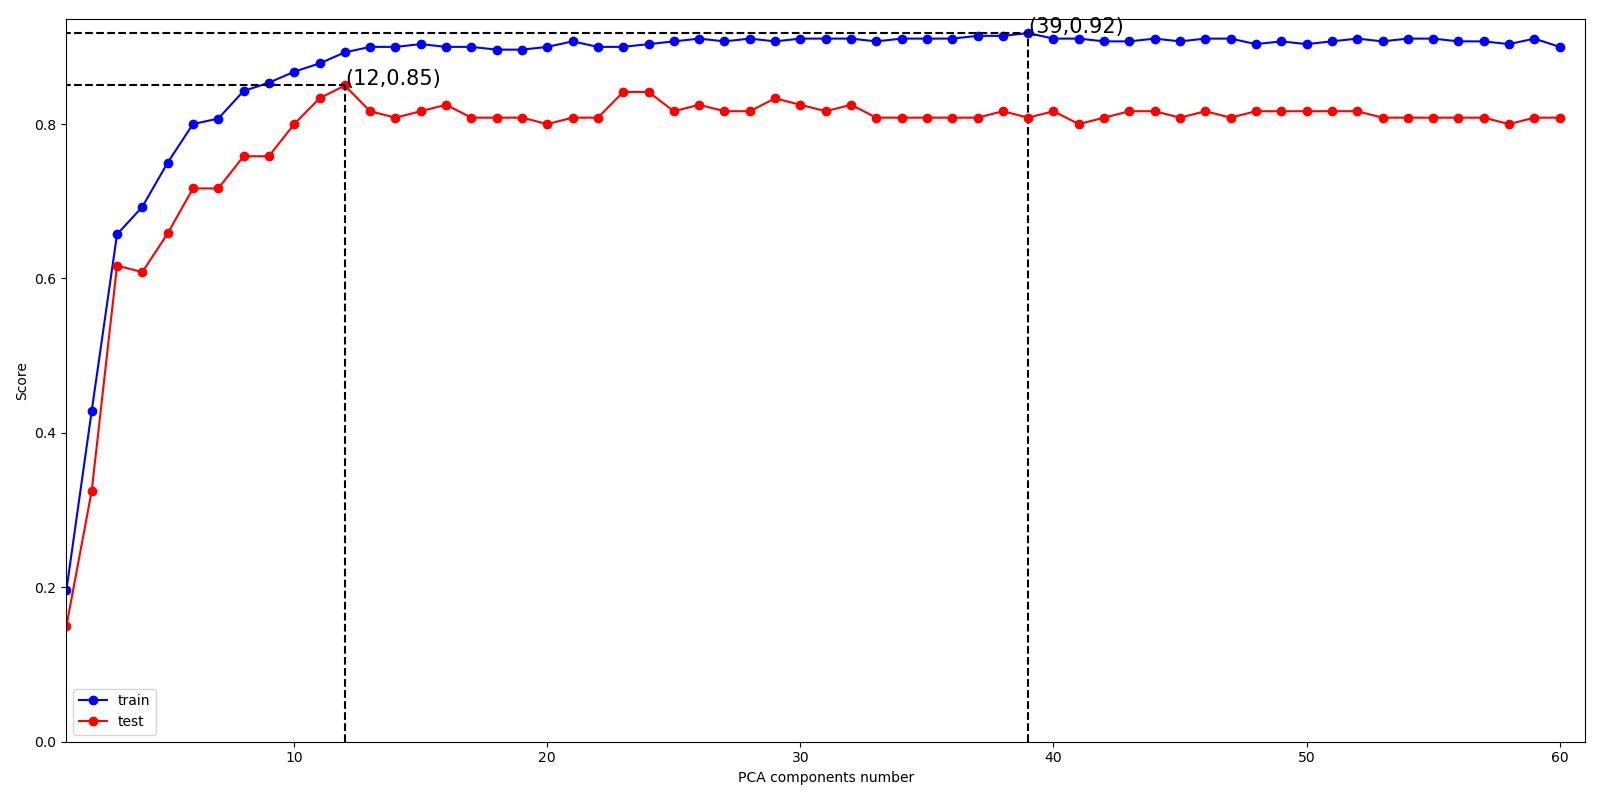
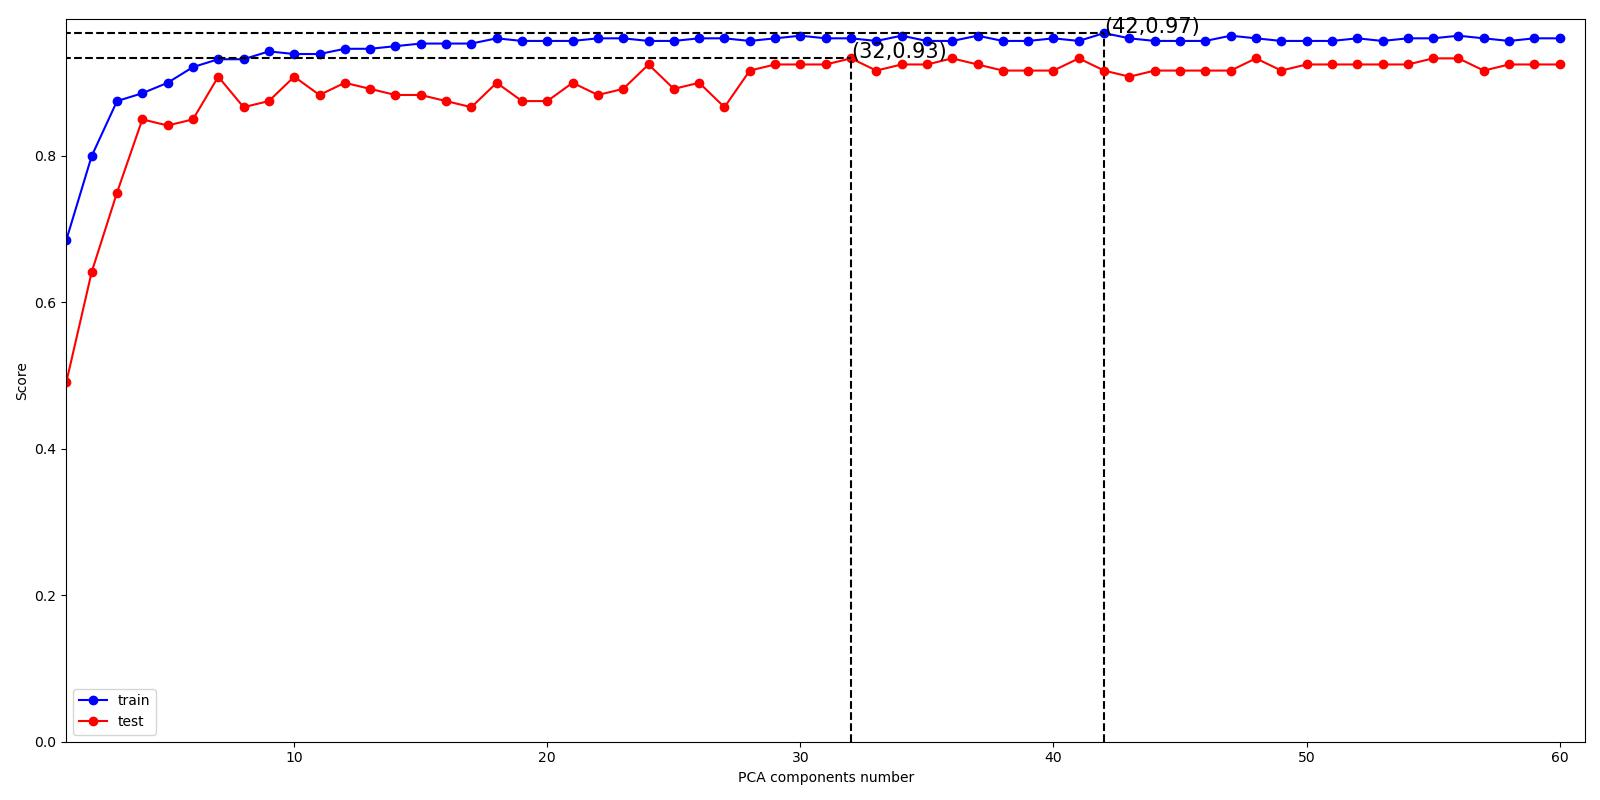
fix bugs

Changed region(s): [[0.0312, 0.0, 1.0, 0.4375], [0.0312, 0.4375, 0.0625, 0.75], [0.0312, 0.1875, 0.0625, 0.2188]]

diff --git a/model.py b/model.py
@@ -58,7 +58,7 @@ class PCAModel(MLModel):
         return self.model.explained_variance_ratio_
 
 
-    def test_model(self,):
+    def test_model(self):
         pass
 
 
@@ -68,24 +68,25 @@ class SVMModel(MLModel):
         MLModel.__init__(self, x_train, x_test, y_train, y_test, draw_roc=draw_roc, output_path=output_path)
 
         self.svm_ncomponents = svm_ncomponents
-        self.param_grid = {'C': np.linspace(1, 1e3, 50),
-                            'gamma': np.linspace(1e-3, 1, 50), 
-                            'kernel': ['linear', 'poly', 'rbf', 'sigmoid'],
-                            }
+        self.param_grid = [{'kernel':['linear'], 'C':[1, 10, 100, 500, 1000]},
+                        {'kernel':['poly'], 'C':[1, 5, 10, 15, 20], 'degree':[2, 3, 4, 5]}, 
+                        {'kernel':['rbf'], 'C':[1, 10, 100, 500, 1000], 'gamma':[1, 0.1, 0.01, 0.001]}]
+        
 
-        self.grid_search = GridSearchCV(SVC(class_weight='balanced'), self.param_grid, n_jobs=-1, cv=5)
+        self.grid_search = GridSearchCV(SVC(), self.param_grid, n_jobs=-1, cv=5)
 
 
     def PCASearch(self, ncomponents: list):
         train_list, test_list, score_list = [], [], []
-        best_model, best_score = None, 0
+        best_model, best_score, best_pca = None, 0, None
         for components in ncomponents:
             print('components:', components)
-            model, train_score = self.train_model(components)
+            model, train_score, pca = self.train_model(components)
             if best_score < train_score: 
                 best_score = train_score
-                best_model = best_model
-            test_score, y_predict, y_proba = self.test_model()
+                best_pca = pca
+                best_model = model
+            test_score, y_predict, y_proba = self.test_model(model, pca)
             train_list.append(train_score)
             test_list.append(test_score)
         
@@ -99,39 +100,38 @@ class SVMModel(MLModel):
         x, y = np.array([ncomponents]*2), np.array(score_list)
         plot_curve(x=x, y=y, idxs=max_idx, 
                     values=max_score, xlabel='PCA components number', 
-                    xlim=(1, max(x.ravel())+1), ylim=(0, max(y.ravel())*1.02), 
-                    ylabel='Score', output_dir=os.path.join(self.output_path, 'KNN_PCA.jpg'))
+                    xlim=(min(ncomponents), max(x.ravel())+1), ylim=(0, max(y.ravel())*1.02), 
+                    ylabel='Score', output_dir=os.path.join(self.output_path, 'SVM_PCA.jpg'))
 
-        self.model = model # find best model by search
+        return best_model, best_pca
 
 
     def train_model(self, svm_ncomponents):
         
         x_train = self.x_train
-        self.svm_ncomponents = svm_ncomponents
-        if self.svm_ncomponents:
-            self.pca = PCA(n_components=self.svm_ncomponents)
-            x_train = self.pca.fit_transform(x_train)
+        pca = None
+        if svm_ncomponents:
+            pca = PCA(n_components=svm_ncomponents)
+            x_train = pca.fit_transform(x_train)
         
         self.grid_search.fit(x_train, self.y_train)
         train_score = self.grid_search.best_score_
         print("Best estimator found by grid search:")
         print("Best params: ", self.grid_search.best_params_)
-
-
         self.model = self.grid_search.best_estimator_
 
-        return self.model, train_score
+
+        return self.model, train_score, pca
 
 
-    def test_model(self,):
+    def test_model(self, model=None, pca=None):
         x_test = self.x_test
-        if self.svm_ncomponents:
-            x_test = self.pca.transform(x_test)
+        if pca:
+            x_test = pca.transform(x_test)
         
-        self.y_predict = self.model.predict(x_test)
-        self.y_proba = self.model.decision_function(x_test)
-        score = self.model.score(x_test, self.y_test)
+        self.y_predict = model.predict(x_test)
+        self.y_proba = model.decision_function(x_test)
+        score = model.score(x_test, self.y_test)
         return score, self.y_predict, self.y_proba
 
 
@@ -160,14 +160,15 @@ class KNNModel(MLModel):
     def PCASearch(self, ncomponents: list):
         
         train_list, test_list, score_list = [], [], []
-        best_model, best_score = None, 0
+        best_model, best_score, best_pca = None, 0, None
         for components in ncomponents:
             print('components:', components)
-            model, train_score = self.train_model(components)
-            if best_score < train_score: 
+            model, train_score, pca = self.train_model(components)
+            if best_score < train_score:
                 best_score = train_score
-                best_model = best_model
-            test_score, y_predict, y_proba = self.test_model()
+                best_pca = pca
+                best_model = model
+            test_score, _, _ = self.test_model(model=model, pca=pca)
             train_list.append(train_score)
             test_list.append(test_score)
         
@@ -180,38 +181,36 @@ class KNNModel(MLModel):
         x, y = np.array([ncomponents]*2), np.array(score_list)
         plot_curve(x=x, y=y, idxs=max_idx, 
                     values=max_score, xlabel='PCA components number', 
-                    xlim=(1, max(x.ravel())+1), ylim=(0, max(y.ravel())*1.02), 
+                    xlim=(min(ncomponents), max(x.ravel())+1), ylim=(0, max(y.ravel())*1.02), 
                     ylabel='Score', output_dir=os.path.join(self.output_path, 'KNN_PCA.jpg'))
 
-        self.model = model # find best model by search
+        return best_model, best_pca
 
     def train_model(self, knn_ncomponents):
 
         x_train = self.x_train
-        self.knn_ncomponents = knn_ncomponents
-        if self.knn_ncomponents:
-            self.pca = PCA(n_components=self.knn_ncomponents)
-            x_train = self.pca.fit_transform(x_train)
+        pca = None
+        if knn_ncomponents:
+            pca = PCA(n_components=knn_ncomponents)
+            x_train = pca.fit_transform(x_train)
         
         self.grid_search.fit(x_train, self.y_train)
         train_score = self.grid_search.best_score_
         print("Best estimator found by grid search:")
         print("Best params: ", self.grid_search.best_params_)
+        model = self.grid_search.best_estimator_
+
+        return model, train_score, pca
 
 
-        self.model = self.grid_search.best_estimator_
-
-        return self.model, train_score
-
-
-    def test_model(self,):
+    def test_model(self, model=None, pca=None):
         x_test = self.x_test
-        if self.knn_ncomponents:
-            x_test = self.pca.transform(x_test)
+        if pca:
+            x_test = pca.transform(x_test)
 
-        self.y_predict = self.model.predict(x_test)
-        self.y_proba = self.model.predict_proba(x_test)
-        score = self.model.score(x_test, self.y_test)
+        self.y_predict = model.predict(x_test)
+        self.y_proba = model.predict_proba(x_test)
+        score = model.score(x_test, self.y_test)
         return score, self.y_predict, self.y_proba
 
 

diff --git a/main.py b/main.py
@@ -13,7 +13,7 @@ from visualization import plot_curve, get_title, plot_gallery
 import utils
 
 import warnings
-warnings.filters('ignore')
+warnings.filterwarnings('ignore')
 
 
 def get_args():
@@ -49,23 +49,27 @@ def get_args():
 if __name__ == '__main__':
 
    args = get_args()
+   utils.set_seed(args.random_state)
    
    
    faceDataset = FaceDataset(args.csv_path, data_save_file=args.data_save_file)
    x_data, y_data = faceDataset.load_data()
    w, h = faceDataset.get_imgsize()
-
-   x_train, x_test, y_train, y_test = train_test_split(x_data, y_data, test_size=args.test_size, random_state=args.random_state)
+   x_train, x_test, y_train, y_test = faceDataset.get_split_data(test_rate=0.2, shuffle=True)
    x_test_plot = x_test.reshape(-1, h, w)
+
+   # x_train, x_test, y_train, y_test = train_test_split(x_data, y_data, test_size=args.test_size, random_state=args.random_state)
 
    # print(x_train.shape)
    # print(x_test.shape)
+   # print(y_train.shape)
+   # print(y_test.shape)
    
    n_classes = len(set(sorted(y_test)))
    target_names = ["person" + str(i) for i in range(1, 1+n_classes)]
 
 
-   print(set(sorted(y_test)), len(set(sorted(y_test))))
+   # print(set(sorted(y_test)), len(set(sorted(y_test))))
 
    ################################################## PCA ##################################################
 
@@ -109,10 +113,16 @@ if __name__ == '__main__':
    
    # svm_output_path = './output/SVM'
    # svm = SVMModel(x_train, x_test, y_train, y_test, output_path=svm_output_path)
-   # svm.PCASearch(ncomponents=list(range(1, 61)))
-   # score, y_predict, y_proba = svm.test_model()
+   # model, pca = svm.PCASearch(ncomponents=list(range(5, 61)))
+
+   # print("Best Parameter by search")
+   # print("pca: ", pca)
+   # print(model)
+
+   
+   # score, y_predict, y_proba = svm.test_model(model, pca)
    # print('Acc: {}'.format(score))
-   # svm.evaluate()
+   # svm.evaluate(target_names)
 
    # prediction_titles = [get_title(y_predict, y_test, target_names, i)
    #                for i in range(y_predict.shape[0])]
@@ -123,11 +133,16 @@ if __name__ == '__main__':
    ################################################## KNN ##################################################
 
    
-   knn_output_path = './output/KNN'
+   knn_output_path = './output/KNN1'
    knn = KNNModel(x_train, x_test, y_train, y_test, output_path=knn_output_path)
 
-   knn.PCASearch(ncomponents=list(range(1, 61)))
-   score, y_predict, y_proba = knn.test_model()
+   model, pca = knn.PCASearch(ncomponents=list(range(1, 61)))
+
+   print("Best Parameter by search")
+   print("pca: ", pca)
+   print(model)
+
+   score, y_predict, y_proba = knn.test_model(model, pca)
    print('Acc: {}'.format(score))
    knn.evaluate(target_names)
 

diff --git a/dataset.py b/dataset.py
@@ -1,4 +1,5 @@
 import os, sys
+import random
 from PIL import Image
 import numpy as np
 import pandas as pd
@@ -52,6 +53,39 @@ class FaceDataset:
         data = train_data[:, :-1]  # 取出特征数据
         target = train_data[:, -1]  # 取出标签数据
         return data, target
+
+
+    def get_split_data(self, test_rate=0.3, shuffle=False):
+        
+        all_data = np.loadtxt(self.data_save_file)
+
+        # 按照类别对数据进行划分
+        target = all_data[:, -1]  # 取出标签数据
+        n_classes = len(set(target)) # 40
+        class_number = sum(all_data[:, -1] == 0)
+        test_size = int(class_number * test_rate) 
+
+        x_train, y_train, x_test, y_test = [], [], [], []
+        for i in range(n_classes):
+            lower = i * class_number
+            upper = (i + 1) * class_number
+            total_data = all_data[lower:upper, :]
+            if shuffle:
+                random.shuffle(total_data)
+
+            x_tr, y_tr = total_data[:-test_size, :-1], total_data[:class_number-test_size, -1]
+            x_te, y_te = total_data[class_number-test_size:, :-1], total_data[class_number-test_size:, -1]
+
+            x_train.append(x_tr)
+            y_train.append(y_tr)
+            x_test.append(x_te)
+            y_test.append(y_te)
+
+
+        return np.concatenate(x_train, axis=0), np.concatenate(x_test, axis=0), np.concatenate(y_train, axis=0), np.concatenate(y_test, axis=0)
+        # return np.concatenate([x_train], dim=0), np.array([x_test]), np.array([y_train]), np.array([y_test])
+
+
 
     def get_imgsize(self):
         try:

diff --git a/visualization.py b/visualization.py
@@ -68,7 +68,7 @@ def plot_curve(x, y, values=[0], idxs=[0], interval=None, output_dir='visualizat
     plt.show()
 
 
-def plot_gallery(images, titles, h, w, n_row=3, n_col=4, save_path=None):
+def plot_gallery(images, titles, h, w, n_row=2, n_col=8, save_path=None):
     """Helper function to plot a gallery of portraits"""
     plt.figure(figsize=(1.8 * n_col, 2.4 * n_row))
     plt.subplots_adjust(bottom=0, left=.01, right=.99, top=.90, hspace=.35)

diff --git a/utils.py b/utils.py
@@ -4,9 +4,12 @@ import json
 import time
 import random
 import datetime
-
 import numpy as np
 
+
+def set_seed(seed):
+    np.random.seed(seed)
+    random.seed(seed)
 
 
 
